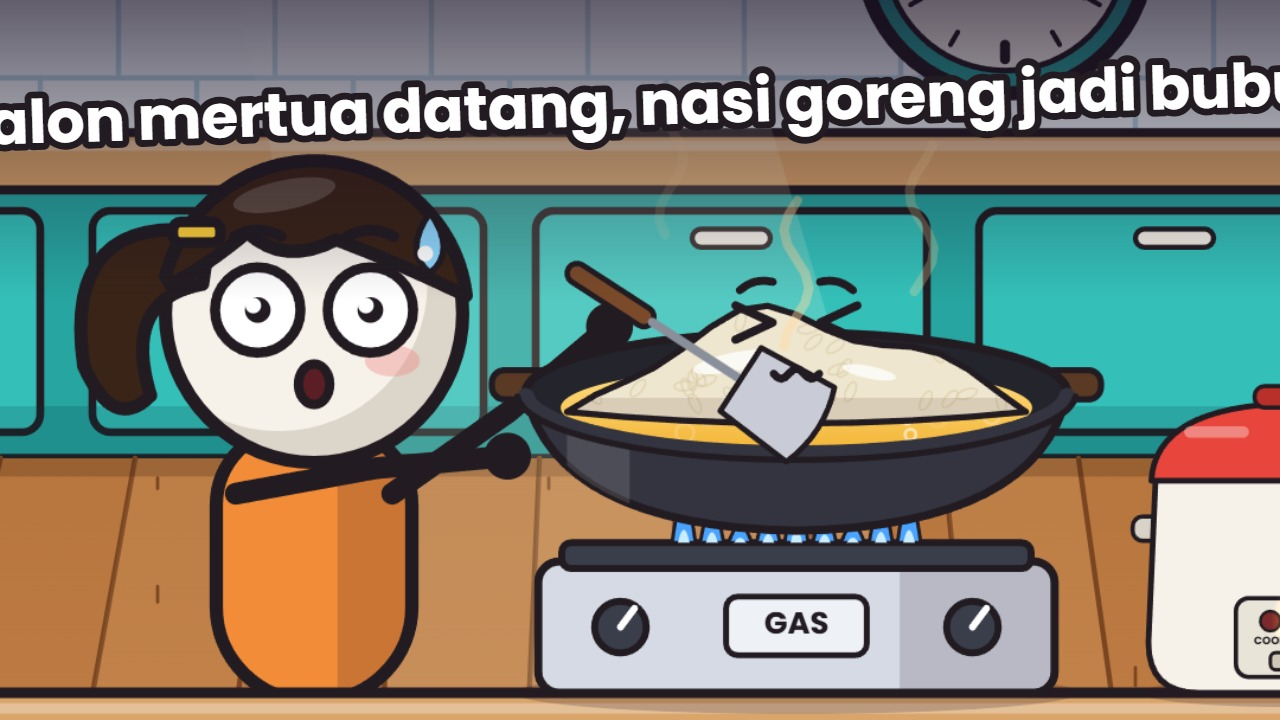
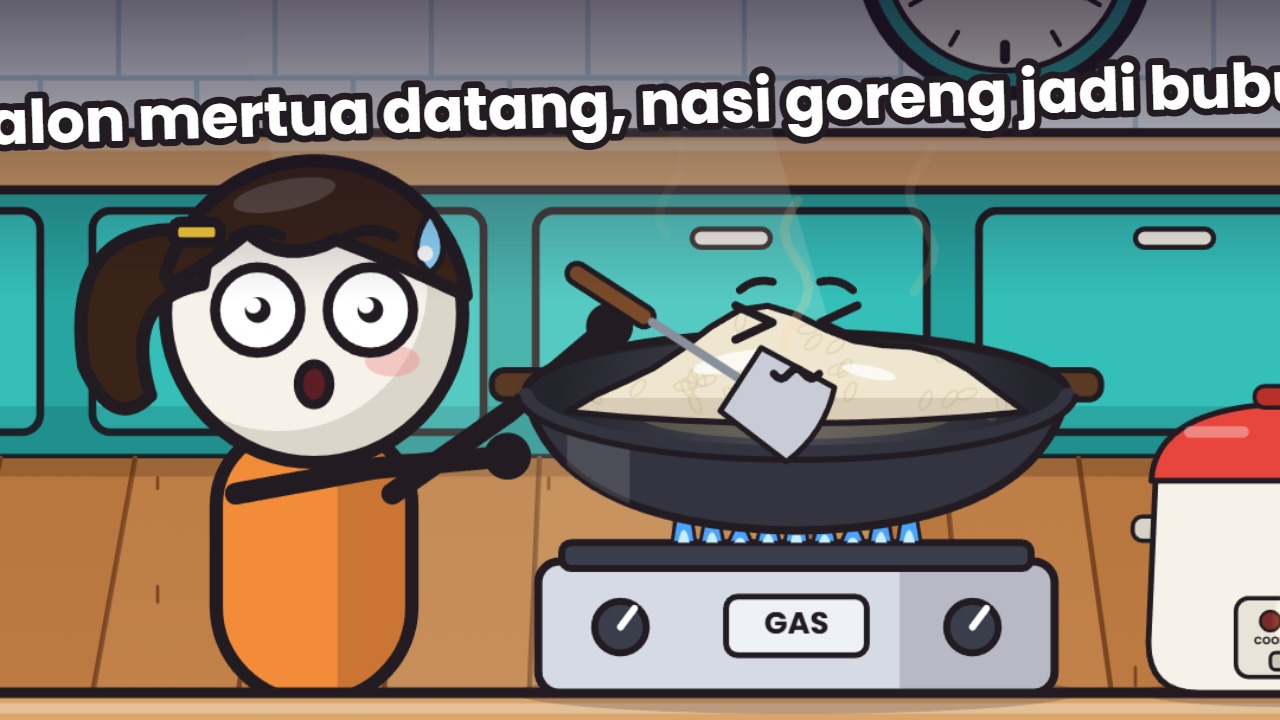
nasi-goreng: suara masak lebih pelan, minyak tipis, kulkas di dinding belakang

diff --git a/episodes/nasi-goreng/web/shots.js b/episodes/nasi-goreng/web/shots.js
@@ -26,6 +26,7 @@ function blurLayer(ctx, draw, px) {
   _bctx.setTransform(1, 0, 0, 1, 0, 0); _bctx.filter = 'none'; _bctx.globalAlpha = 1; _bctx.clearRect(0, 0, W, H); draw(_bctx);
   ctx.save(); ctx.setTransform(1, 0, 0, 1, 0, 0); ctx.filter = `blur(${px}px)`; ctx.drawImage(_blurBuf, -W * .02, -H * .02, W * 1.04, H * 1.04); ctx.restore();
 }
+const FY = 1160, FS = 1.0;          // kulkas berdiri di lantai, menempel dinding belakang (sederet lemari belakang)
 const BK = NG.back, TOP = NG.top, RX = NG.rani, WK = NG.wok, ST = NG.stove, FX = NG.fridge, CKR = NG.cooker;
 const armTo = (px, flip, wx, wy, bend = 1) => reach(px, BK, 600, flip, wx, wy, bend);
 function tokoh(ctx, t, P, x, face, arms, flip = 1, extra = {}) { drawStick(ctx, C(P, Object.assign({ x, y: BK, s: 600, flip, armLen: 1.3, legs: standL, arms: arms || idleArms(t, x * .01), face, headTilt: -(face.pop || 0) * .05 }, extra))); }
@@ -39,6 +40,7 @@ const SUT = .85;
 // o: { fR, armsR, rx, flipR, fB, armsB, bx, fI, armsI, ix, ibuExtra, rExtra, wok:{...state} | null, wokFace, wok1:{state}, fire, cooker:{lid,steam,face}, fridge:{door,face}, jam, fast, sutil:[g,rot], extra(ctx), front(ctx), mertua:{n,fB,fI} }
 function kitchen(ctx, t, cam, o) {
   dapurBack(ctx, t, cam, { jam: o.jam == null ? jamAt(40) : o.jam, fast: o.fast || 0 });
+  drawFridge(ctx, FX, FY, FS, Object.assign({ t, mood: 'happy' }, o.fridge || {}));
   if (o.mertua) { tokoh(ctx, t, BAPAK_M, NG.mertua[0], o.mertua.fB, o.mertua.armsB, -1); tokoh(ctx, t, IBU_M, NG.mertua[1], o.mertua.fI, o.mertua.armsI, -1); }
   if (o.fI) tokoh(ctx, t, IBU, o.ix == null ? NG.ibuIn : o.ix, o.fI, o.armsI, o.flipI || 1, o.ibuExtra || {});
   if (o.fB) tokoh(ctx, t, BUDI, o.bx == null ? NG.budi : o.bx, o.fB, o.armsB, -1, o.budiExtra || {});
@@ -47,10 +49,9 @@ function kitchen(ctx, t, cam, o) {
   drawStove(ctx, ST[0], ST[1], .9, { fire: o.fire == null ? 1 : o.fire, t });
   if (o.cooker !== false) drawRiceCooker(ctx, CKR[0], CKR[1], .55, Object.assign({ t, warm: 1 }, o.cooker || {}));
   if (o.under) o.under(ctx);
-  if (o.wok1) drawWok(ctx, NG.wok1[0], NG.wok1[1] - 60, .6, { t, heat: 0 }, c => drawNasiWok(c, Object.assign({ t }, o.wok1)));
-  if (o.wok !== null) drawWok(ctx, WK[0], WK[1], .8, { t, heat: o.heat == null ? .8 : o.heat }, c => drawNasiWok(c, Object.assign({ t }, o.wok || {})));
+  if (o.wok1) drawWok(ctx, NG.wok1[0], NG.wok1[1] - 60, .6, { t, heat: 0, oil: .15 }, c => drawNasiWok(c, Object.assign({ t }, o.wok1)));
+  if (o.wok !== null) drawWok(ctx, WK[0], WK[1], .8, { t, heat: (o.heat == null ? .8 : o.heat) * .5, oil: .15 }, c => drawNasiWok(c, Object.assign({ t }, o.wok || {})));
   if (o.sutil) drawSutil(ctx, o.sutil[0][0], o.sutil[0][1], SUT, o.sutil[1]);
-  if (o.fridge) drawFridge(ctx, FX, 1560, .95, Object.assign({ t, mood: 'happy' }, o.fridge));
   if (o.extra) o.extra(ctx);
 }
 const armsStir = (t, sp, amp, rx = RX) => { const g = stirG(t, sp, amp); g[0] += rx - RX; return { g, arms: { L: armTo(rx, 1, rx + 150, 1150, -1), R: armTo(rx, 1, g[0], g[1], -1) } }; };
@@ -102,7 +103,7 @@ const RXF = FX + 300;                             // Rani berdiri di samping kul
 SH(ls(2), ls(3), { tr: 'whip' }, (ctx, lt, t) => {
   const cam = CK(t, [[ls(2), { x: -260, y: 1060, z: 1.45 }], [T2.bk + .3, { x: -250, y: 1100, z: 1.6 }, easeOut], [T2.di, { x: -170, y: 1110, z: 1.85 }, ease], [T2.ki, { x: -150, y: 1100, z: 2.0 }, ease], [ls(3), { x: -150, y: 1100, z: 2.05 }]], 2);
   const door = easeOut(inv(T2.bk - .1, T2.bk + .4, t)), hold = inv(T2.di - .5, T2.di - .1, t);
-  const wad = [lerp(FX, RXF - 190, easeOut(hold)), lerp(1300, 1300, easeOut(hold))];
+  const wad = [lerp(FX, RXF - 190, easeOut(hold)), lerp(980, 1300, easeOut(hold))];
   const knock = [T2.ke, T2.ke + .25].some(h => t > h && t < h + .12);
   kitchen(ctx, t, cam, {
     fR: EM(t, [[ls(2), 'netral', { look: [-.8, .3] }], [T2.di, 'curiga', { look: [-.7, .5] }], [T2.ke + .1, 'meringis'], [T2.ki, 'sombong', { look: [-.7, .5] }]], 5), rx: RXF,
@@ -257,7 +258,7 @@ SH(ls(11), ls(12), { tr: 'whip' }, (ctx, lt, t) => {
     fridge: { door: 1 - inv(T11.ku, T11.ku + .4, t), cold: 1, mood: 'happy', look: .8 },
     wok: { block: dump >= 1 ? 1 : 0 }, heat: 1, wok1: { mush: 1, burn: 1 },
     extra: c => {
-      if (hold > 0 && dump < 1) { const p = hold < 1 ? [lerp(FX, wad[0], easeOut(hold)), lerp(1300, wad[1], easeOut(hold))] : (dump > 0 ? [lerp(wad[0], WK[0], easeIn(dump)), lerp(wad[1], WK[1] - 60, easeIn(dump))] : wad); drawWadahNasi(c, p[0], p[1], .9, { t, lid: 1 - dump, frost: 1, face: EF(t, [[ls(11), 'sombong']], 21) }); }
+      if (hold > 0 && dump < 1) { const p = hold < 1 ? [lerp(FX, wad[0], easeOut(hold)), lerp(980, wad[1], easeOut(hold))] : (dump > 0 ? [lerp(wad[0], WK[0], easeIn(dump)), lerp(wad[1], WK[1] - 60, easeIn(dump))] : wad); drawWadahNasi(c, p[0], p[1], .9, { t, lid: 1 - dump, frost: 1, face: EF(t, [[ls(11), 'sombong']], 21) }); }
       panicSmoke(c, t, .6, NG.wok1[0], NG.wok1[1] - 90);
     }
   });
@@ -327,7 +328,7 @@ SH(ls(15), ls(16), { tr: 'whip' }, (ctx, lt, t) => {
   const hard = inv(T15.me - .2, T15.me + .3, t), oil = inv(T15.ja, T15.go, t), two = inv(T15.bu - .1, T15.bu + .2, t);
   drawLup(ctx, 660, 500, 300, 1, c => {
     c.fillStyle = mixC('#2f4a6a', '#3a2a12', oil); c.fillRect(-400, -400, 800, 800);
-    if (oil > 0) { c.fillStyle = `rgba(255,190,60,${.5 * oil})`; c.fillRect(-400, 60, 800, 400); }
+    if (oil > 0) { c.fillStyle = `rgba(255,190,60,${.22 * oil})`; c.fillRect(-400, 90, 800, 400); }
     const gx = lerp(0, -130, two);
     drawButir(c, gx, 10, 170 - 40 * two, { hard, t, sizzle: oil, face: EF(t, [[ls(15), 'netral'], [T15.me, 'bangga'], [T15.go, 'takjub']], 30) });
     if (two > 0) drawButir(c, 150, 10, 130 * backOut(two), { wet: 1, t, steam: 1, face: EF(t, [[T15.bu, 'meringis']], 31) });

diff --git a/episodes/nasi-goreng/web/env_kerupuk.js b/episodes/nasi-goreng/web/env_kerupuk.js
@@ -83,8 +83,10 @@ function drawWok(ctx, x, y, s = 1, o = {}, inside) {
   // dalam wajan + minyak
   ellipse(ctx, 0, 0, 260, 58); fillStroke(ctx, '#23242c', 8);
   ctx.save(); ellipse(ctx, 0, 0, 252, 52); ctx.clip();
-  ellipse(ctx, 0, 14, 226, 40); const g = ctx.createLinearGradient(0, -30, 0, 50); g.addColorStop(0, KRP.oilHi); g.addColorStop(1, KRP.oil); ctx.fillStyle = g; ctx.fill();
-  if (hot > 0) { const r = rng(9); for (let i = 0; i < 18; i++) { const bx = (r() - .5) * 380, by = 14 + (r() - .5) * 52, ph = (t * (1.5 + r()) + r()) % 1; circle(ctx, bx, by, (3 + 7 * ph) * hot); ctx.lineWidth = 3; ctx.strokeStyle = `rgba(255,255,255,${.8 * (1 - ph) * hot})`; ctx.stroke(); } }
+  const oil = o.oil == null ? 1 : o.oil;
+  if (oil >= 1) { ellipse(ctx, 0, 14, 226, 40); const g = ctx.createLinearGradient(0, -30, 0, 50); g.addColorStop(0, KRP.oilHi); g.addColorStop(1, KRP.oil); ctx.fillStyle = g; ctx.fill(); }
+  else { const g = ctx.createRadialGradient(0, 20, 10, 0, 20, 230); g.addColorStop(0, '#4a4b56'); g.addColorStop(1, '#23242c'); ctx.fillStyle = g; ctx.fillRect(-260, -60, 520, 130); ctx.globalAlpha = .55 * oil + .1; ellipse(ctx, 0, 22, 150, 22); ctx.fillStyle = KRP.oilHi; ctx.fill(); ctx.globalAlpha = 1; ctx.fillStyle = 'rgba(255,255,255,.18)'; ellipse(ctx, -90, -6, 70, 8, -.15); ctx.fill(); }
+  if (hot > 0) { const r = rng(9); for (let i = 0; i < Math.round(18 * Math.min(1, oil)); i++) { const bx = (r() - .5) * 380, by = 14 + (r() - .5) * 52, ph = (t * (1.5 + r()) + r()) % 1; circle(ctx, bx, by, (3 + 7 * ph) * hot); ctx.lineWidth = 3; ctx.strokeStyle = `rgba(255,255,255,${.8 * (1 - ph) * hot})`; ctx.stroke(); } }
   ctx.restore();
   // v7: isi wajan hanya terlihat di atas bibir wajan atau di dalam lingkar wajan (tidak menembus badan wajan)
   if (inside) { ctx.save(); ctx.beginPath(); ctx.rect(-3000, -4000, 6000, 4000); ctx.ellipse(0, 0, 250, 50, 0, 0, TAU); ctx.clip(); inside(ctx); ctx.restore(); }

diff --git a/episodes/nasi-goreng/audio.py b/episodes/nasi-goreng/audio.py
@@ -14,18 +14,18 @@ END = WD[-1]['e'] + .6
 noise = lambda dur, f=900, dec=22: hp(rng.standard_normal(int(dur * SR)), f) * np.exp(-T(int(dur * SR)) * dec)
 def sizzle(dur, g=1.0):          # minyak panas: desis berbutir
     n = int(dur * SR); t = T(n); x = bp(rng.standard_normal(n), 2500, 9000) * (0.55 + .45 * (rng.random(n) > .985))
-    return x * np.minimum(1, t / .08) * np.minimum(1, (dur - t) / .2) * .4 * g
+    return x * np.minimum(1, t / .08) * np.minimum(1, (dur - t) / .2) * .4 * g * .3
 def scrape(dur=.22):             # sutil menggesek wajan
-    n = int(dur * SR); t = T(n); return bp(rng.standard_normal(n), 1800, 6000) * np.sin(np.pi * np.clip(t / dur, 0, 1)) * .6
+    n = int(dur * SR); t = T(n); return bp(rng.standard_normal(n), 1800, 6000) * np.sin(np.pi * np.clip(t / dur, 0, 1)) * .25
 def blup(f=180):                 # gelembung bubur kental
-    n = int(.18 * SR); t = T(n); fr = f * (1 + 2.5 * t); return np.sin(2 * np.pi * np.cumsum(fr) / SR) * np.exp(-t * 18) * .7
+    n = int(.18 * SR); t = T(n); fr = f * (1 + 2.5 * t); return np.sin(2 * np.pi * np.cumsum(fr) / SR) * np.exp(-t * 18) * .35
 def squelch():                   # lengket
-    n = int(.3 * SR); t = T(n); return lp(rng.standard_normal(n), 900) * np.exp(-t * 9) * (0.6 + .4 * np.sin(2 * np.pi * 30 * t)) * .8
+    n = int(.3 * SR); t = T(n); return lp(rng.standard_normal(n), 900) * np.exp(-t * 9) * (0.6 + .4 * np.sin(2 * np.pi * 30 * t)) * .45
 def knock(f=900):
     n = int(.08 * SR); t = T(n); return (np.sin(2 * np.pi * f * t) * .7 + lp(rng.standard_normal(n), 3000) * .5) * np.exp(-t * 70)
 def stirs(t0, t1, sp):           # satu gesekan tiap setengah putaran aduk (sama dengan stirG di shots.js)
     P = np.pi / sp; k = 0
-    while t0 + k * P < t1: place(sfx, scrape(min(.22, P * .8)), t0 + k * P, .35); k += 1
+    while t0 + k * P < t1: place(sfx, scrape(min(.22, P * .8)), t0 + k * P, .3) if k % 2 == 0 else None; k += 1
 def ticks(t0, t1, every=.5, g=.3):
     k = 0
     while t0 + k * every < t1: place(sfx, tick(), t0 + k * every, g); k += 1

diff --git a/episodes/nasi-goreng/NASKAH.md b/episodes/nasi-goreng/NASKAH.md
@@ -39,3 +39,8 @@ Penjelasan dipendekkan atas arahan pemilik: mekanisme diucapkan Ibu dalam 2 kali
 ## Catatan teknis
 - Scribe menulis angka sebagai digit ("40"), jadi naskah memakai digit (aturan SKILL). `merge.json`: "gak" -> "Nggak".
 - Render ulang di Windows: `powershell -ExecutionPolicy Bypass -File fakta-unik/engine/tools/win/build.ps1 -Dir episodes/nasi-goreng -Workers 8`.
+
+## Revisi 14-11-2026 (masukan pemilik)
+- Suara masak (desis minyak, sutil, gelembung, lengket) dikecilkan sekitar 2-3x.
+- Minyak wajan jadi lapisan tipis (`drawWok` opsi `oil`, episode ini 0,15); wajan Kerupuk tetap minyak banyak (deep fry).
+- Kulkas dipindah ke dinding belakang, berdiri di lantai sederet lemari belakang (`FY`/`FS` di shots.js), dan digambar di SEMUA shot (aturan konsistensi v6).
